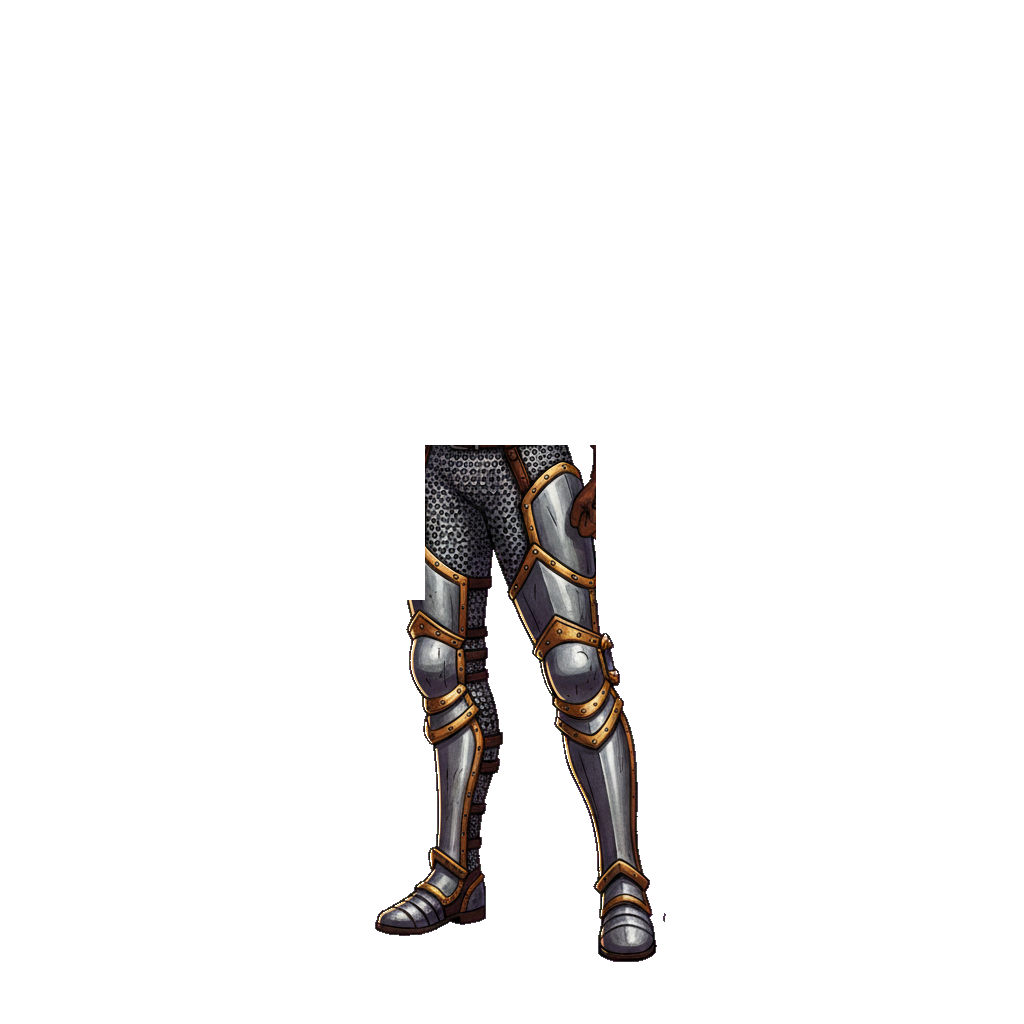
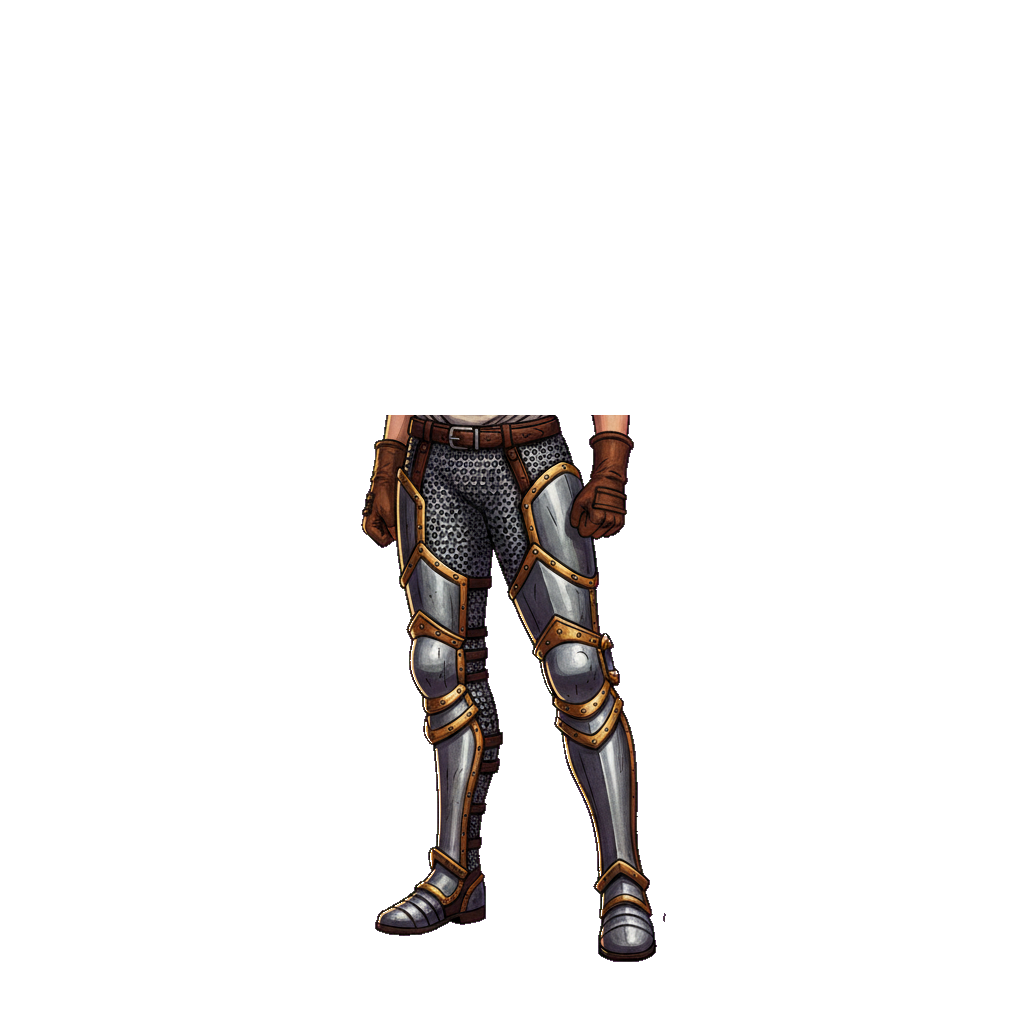
fix(art): polish true modular armor contours, eliminate seam cuts and stray collars

Changed region(s): [[0.3438, 0.4062, 0.625, 0.5938]]

diff --git a/pipeline/scripts/extract_true_modular_armors.py b/pipeline/scripts/extract_true_modular_armors.py
@@ -1,144 +1,254 @@
-"""Extract True Modular Armors and Build Showcase for 'Gym Oath'.
-Extracts cleanly isolated modular slots (helm, chest, legs) with zero cut glitches,
-and demonstrates perfect mix-and-match compatibility.
+"""Extract True Modular Armors for 'Gym Oath'.
+Author: Antigravity Agent
+Cleanly sections armor into individual modular equipment slots:
+- HELM: (Headwear only, closed knight bascinet with steel gorget or open-face leather helmet, NO shoulder pauldrons, NO undershirt).
+- CHEST: (Torso, shoulders, arms, gauntlets down to fingertips, plus natural tunic skirt / tassets / fauld draped over legs).
+- LEGS: (From waist/belt down to boots and sabatons, with full solid thighs and knee poleyns).
+
+Eliminates all horizontal knife cuts, sliced garments, stray shirt collars, or overlapping cloth.
 """
 
 import os
-import shutil
 from PIL import Image, ImageDraw, ImageFont
 import numpy as np
 
-PIPELINE_DIR = r"C:\Users\pissio\Creazione-Gioco-RPG-\pipeline"
-ARMORS_DIR = os.path.join(PIPELINE_DIR, "output", "armors")
-BASES_DIR = os.path.join(PIPELINE_DIR, "current_bases")
-MODULAR_DIR = os.path.join(PIPELINE_DIR, "output", "modular_armors")
+SCRIPT_DIR = os.path.dirname(os.path.abspath(__file__))
+PIPELINE_DIR = os.path.dirname(SCRIPT_DIR)
+REPO_DIR = os.path.dirname(PIPELINE_DIR)
+OUTPUT_ARMORS = os.path.join(PIPELINE_DIR, "output", "armors")
 BRAIN_DIR = r"C:\Users\pissio\.gemini\antigravity\brain\6b006a30-bc2b-405b-8416-cc5d1029fff3"
-KNIGHT_ART = r"C:\Users\pissio\Creazione-Gioco-RPG-\assets\art\knight"
-
+MODULAR_DIR = os.path.join(OUTPUT_ARMORS, "modular")
 os.makedirs(MODULAR_DIR, exist_ok=True)
 
-# 1. Load Sources
-base_m = Image.open(os.path.join(BASES_DIR, "hero_male_base.png")).convert("RGBA")
-base_f = Image.open(os.path.join(BASES_DIR, "hero_female_base.png")).convert("RGBA")
+KNIGHT_ART = os.path.join(REPO_DIR, "assets", "art", "knight")
 
-m_t1 = Image.open(os.path.join(ARMORS_DIR, "male_tier1_gambeson_clean.png")).convert("RGBA")
-m_t2 = Image.open(os.path.join(ARMORS_DIR, "male_tier2_cuoio_clean.png")).convert("RGBA")
-m_t3 = Image.open(os.path.join(ARMORS_DIR, "male_tier3_piastre_clean.png")).convert("RGBA")
+# Load Base Heroes
+base_m = Image.open(os.path.join(KNIGHT_ART, "male", "idle", "base.png")).convert("RGBA")
+base_f = Image.open(os.path.join(KNIGHT_ART, "female", "idle", "base.png")).convert("RGBA")
 
-f_t1 = Image.open(os.path.join(ARMORS_DIR, "female_tier1_gambeson_clean.png")).convert("RGBA")
-f_t2 = Image.open(os.path.join(ARMORS_DIR, "female_tier2_cuoio_clean.png")).convert("RGBA")
-f_t3 = Image.open(os.path.join(ARMORS_DIR, "female_tier3_piastre_clean.png")).convert("RGBA")
+# Load Clean Armor Progression Sources
+m_t1 = Image.open(os.path.join(OUTPUT_ARMORS, "male_tier1_gambeson_clean.png")).convert("RGBA")
+m_t2 = Image.open(os.path.join(OUTPUT_ARMORS, "male_tier2_cuoio_clean.png")).convert("RGBA")
+m_t3 = Image.open(os.path.join(OUTPUT_ARMORS, "male_tier3_piastre_clean.png")).convert("RGBA")
 
+f_t1 = Image.open(os.path.join(OUTPUT_ARMORS, "female_tier1_gambeson_clean.png")).convert("RGBA")
+f_t2 = Image.open(os.path.join(OUTPUT_ARMORS, "female_tier2_cuoio_clean.png")).convert("RGBA")
+f_t3 = Image.open(os.path.join(OUTPUT_ARMORS, "female_tier3_piastre_clean.png")).convert("RGBA")
+
+# Load Isolated Slot Sources from Gemini
+m_t3_helm_src = Image.open(os.path.join(BRAIN_DIR, "test_male_t3_helm_clean.png")).convert("RGBA")
+f_t3_helm_src = Image.open(os.path.join(BRAIN_DIR, "test_female_t3_helm_clean.png")).convert("RGBA")
 m_t3_legs_src = Image.open(os.path.join(BRAIN_DIR, "test_t3_legs_clean.png")).convert("RGBA")
 f_t3_legs_src = Image.open(os.path.join(BRAIN_DIR, "test_f_t3_legs_clean.png")).convert("RGBA")
 
-m_t3_helm_src = Image.open(os.path.join(BRAIN_DIR, "test_male_t3_helm_clean.png")).convert("RGBA")
-f_t3_helm_src = Image.open(os.path.join(BRAIN_DIR, "test_female_t3_helm_clean.png")).convert("RGBA")
+Y, X = np.ogrid[:1024, :1024]
 
-h, w = 1024, 1024
-Y, X = np.indices((h, w))
+# --- HELMET CLEANING FUNCTION ---
+def make_clean_piastre_helm(src_im, pts_bottom, left_bounds, right_bounds):
+    arr = np.array(src_im)
+    poly = left_bounds + pts_bottom + right_bounds
+    mask_im = Image.new("L", (1024, 1024), 0)
+    draw = ImageDraw.Draw(mask_im)
+    draw.polygon(poly, fill=255)
+    arr_mask = np.array(mask_im)
+    res = np.zeros_like(arr)
+    m = (arr_mask == 255) & (arr[:, :, 3] > 80)
+    res[m] = arr[m]
+    return Image.fromarray(res)
 
 def build_male_slots():
     print("Building Male Modular Slots...")
     # T1 Gambeson
-    # Chest: Upper body down to natural tunic hem Y <= 635
+    # Chest: Diamond quilted tunic covering upper body down to natural curved hem Y <= 635, plus full arms
     arr_t1 = np.array(m_t1)
-    c1_mask = ((Y >= 180) & (Y <= 600) & ((X < 430) | (X > 590))) | ((Y >= 200) & (Y <= 635) & (X >= 420) & (X <= 600))
-    arr_c1 = np.zeros_like(arr_t1); arr_c1[c1_mask] = arr_t1[c1_mask]
-    m_c1 = Image.fromarray(arr_c1)
+    mask_c1 = Image.new("L", (1024, 1024), 0)
+    draw_c1 = ImageDraw.Draw(mask_c1)
+    draw_c1.polygon([(340, 180), (430, 180), (430, 635), (340, 530)], fill=255) # left arm
+    draw_c1.polygon([(575, 180), (665, 180), (665, 530), (575, 635)], fill=255) # right arm
+    draw_c1.rectangle([420, 180, 585, 635], fill=255) # Tunic torso down to natural curved hem
+    arr_mc1 = np.array(mask_c1)
+    res_c1 = np.zeros_like(arr_t1)
+    res_c1[(arr_mc1 == 255) & (arr_t1[:, :, 3] > 80)] = arr_t1[(arr_mc1 == 255) & (arr_t1[:, :, 3] > 80)]
+    m_c1 = Image.fromarray(res_c1)
     
-    # Legs: Quilted pants from waist Y >= 460 down, no hands
-    l1_mask = (Y >= 460) & ~((Y < 600) & ((X < 430) | (X > 590)))
-    arr_l1 = np.zeros_like(arr_t1); arr_l1[l1_mask] = arr_t1[l1_mask]
+    # Legs: Quilted trousers with knee pads and boots from belt Y >= 420 down, full solid thighs
+    arr_l1 = np.zeros_like(arr_t1)
+    l1_m = (Y >= 420) & (X >= 360) & (X <= 680) & (arr_t1[:, :, 3] > 80)
+    arr_l1[l1_m] = arr_t1[l1_m]
     m_l1 = Image.fromarray(arr_l1)
     
     # T2 Cuoio
-    # Helm: Head only Y <= 220, X: 425..575
+    # Helm: Reinforced leather helmet with golden crest and brow band, cheek guards. No pauldrons!
     arr_t2 = np.array(m_t2)
-    h2_mask = (Y <= 220) & (X >= 425) & (X <= 575)
-    arr_h2 = np.zeros_like(arr_t2); arr_h2[h2_mask] = arr_t2[h2_mask]
-    m_h2 = Image.fromarray(arr_h2)
+    mask_h2 = Image.new("L", (1024, 1024), 0)
+    draw_h2 = ImageDraw.Draw(mask_h2)
+    draw_h2.polygon([
+        (438, 30), (565, 30), (570, 140), (565, 195), (550, 208),
+        (500, 208), (455, 208), (440, 195), (438, 140)
+    ], fill=255)
+    arr_mh2 = np.array(mask_h2)
+    res_h2 = np.zeros_like(arr_t2)
+    res_h2[(arr_mh2 == 255) & (arr_t2[:, :, 3] > 80)] = arr_t2[(arr_mh2 == 255) & (arr_t2[:, :, 3] > 80)]
+    m_h2 = Image.fromarray(res_h2)
     
-    # Chest: Cuirass & tassets down to Y <= 535
-    c2_mask = ((Y >= 180) & (Y <= 600) & ((X < 430) | (X > 590))) | ((Y >= 210) & (Y <= 535) & (X >= 420) & (X <= 600))
-    arr_c2 = np.zeros_like(arr_t2); arr_c2[c2_mask] = arr_t2[c2_mask]
-    m_c2 = Image.fromarray(arr_c2)
+    # Chest: Cuirass + pauldrons + gauntlets + belt + 2 tassets (open groin so legs show through!)
+    mask_c2 = Image.new("L", (1024, 1024), 0)
+    draw_c2 = ImageDraw.Draw(mask_c2)
+    draw_c2.rectangle([340, 180, 425, 540], fill=255) # left arm/gauntlet
+    draw_c2.rectangle([580, 180, 670, 540], fill=255) # right arm/gauntlet
+    draw_c2.rectangle([420, 180, 585, 445], fill=255) # Torso down to belt
+    draw_c2.polygon([(420, 440), (472, 440), (468, 518), (420, 518)], fill=255) # left tasset
+    draw_c2.polygon([(528, 440), (585, 440), (585, 518), (530, 518)], fill=255) # right tasset
+    arr_mc2 = np.array(mask_c2)
+    res_c2 = np.zeros_like(arr_t2)
+    res_c2[(arr_mc2 == 255) & (arr_t2[:, :, 3] > 80)] = arr_t2[(arr_mc2 == 255) & (arr_t2[:, :, 3] > 80)]
+    m_c2 = Image.fromarray(res_c2)
     
-    # Legs: Leather pants from waist Y >= 460 down, no hands
-    l2_mask = (Y >= 460) & ~((Y < 600) & ((X < 430) | (X > 590)))
-    arr_l2 = np.zeros_like(arr_t2); arr_l2[l2_mask] = arr_t2[l2_mask]
+    # Legs: Hardened leather pants with knee poleyns and riding boots from belt Y >= 420 down
+    arr_l2 = np.zeros_like(arr_t2)
+    l2_m = (Y >= 420) & (X >= 360) & (X <= 680) & (arr_t2[:, :, 3] > 80)
+    arr_l2[l2_m] = arr_t2[l2_m]
     m_l2 = Image.fromarray(arr_l2)
     
     # T3 Piastre
-    # Helm: From isolated source (head + gorget)
-    arr_th = np.array(m_t3_helm_src)
-    h3_mask = (Y <= 250) & (X >= 410) & (X <= 580)
-    arr_h3 = np.zeros_like(arr_th); arr_h3[h3_mask] = arr_th[h3_mask]
-    m_h3 = Image.fromarray(arr_h3)
+    # Helm: Spartan bascinet with closed visor, comb, and steel gorget collar trimmed to exact bottom ink line
+    pts_m = [(438, 208), (445, 225), (455, 242), (470, 256), (490, 263), (510, 260), (525, 252), (540, 238), (555, 225), (572, 212)]
+    left_m = [(410, 0), (410, 180), (430, 195)]
+    right_m = [(580, 195), (580, 180), (580, 0)]
+    m_h3 = make_clean_piastre_helm(m_t3_helm_src, pts_m, left_m, right_m)
     
-    # Chest: Cuirass (chest + abdomen) + fauld + green cloth down to Y <= 645
+    # Chest: Cuirass covering chest AND abdomen + fauld + ragged green cloth tabard + chainmail skirt
     arr_t3 = np.array(m_t3)
-    c3_mask = ((Y >= 180) & (Y <= 600) & ((X < 420) | (X > 595))) | ((Y >= 210) & (Y <= 645) & (X >= 420) & (X <= 595))
-    arr_c3 = np.zeros_like(arr_t3); arr_c3[c3_mask] = arr_t3[c3_mask]
-    m_c3 = Image.fromarray(arr_c3)
+    # Clear black background pocket between legs
+    black_pocket = (Y >= 620) & (Y <= 720) & (X >= 470) & (X <= 535) & (arr_t3[:, :, 0] < 12) & (arr_t3[:, :, 1] < 12) & (arr_t3[:, :, 2] < 12)
+    arr_t3[black_pocket, 3] = 0
     
-    # Legs: From isolated source (chainmail thighs + steel greaves + sabatons)
+    # Natural bottom contour of male T3 chest (fauld + green cloth + chainmail):
+    pts_skirt_bottom = [
+        (405, 540), (420, 580), (445, 638), (452, 605), (465, 622),
+        (480, 625), (495, 620), (500, 605), (515, 642), (525, 660),
+        (540, 642), (555, 656), (575, 646), (595, 540)
+    ]
+    poly_c3 = [(340, 180), (670, 180), (670, 540), (595, 540)] + list(reversed(pts_skirt_bottom)) + [(405, 540), (340, 540)]
+    mask_c3 = Image.new("L", (1024, 1024), 0)
+    draw_c3 = ImageDraw.Draw(mask_c3)
+    draw_c3.polygon(poly_c3, fill=255)
+    draw_c3.rectangle([340, 180, 425, 550], fill=255) # left arm/gauntlet
+    draw_c3.rectangle([580, 180, 670, 550], fill=255) # right arm/gauntlet
+    
+    arr_mc3 = np.array(mask_c3)
+    res_c3 = np.zeros_like(arr_t3)
+    res_c3[(arr_mc3 == 255) & (arr_t3[:, :, 3] > 80)] = arr_t3[(arr_mc3 == 255) & (arr_t3[:, :, 3] > 80)]
+    m_c3 = Image.fromarray(res_c3)
+    
+    # Legs: Isolated chainmail chausses + steel cuisses + poleyns + greaves + sabatons from belt Y >= 415 down
     arr_tl = np.array(m_t3_legs_src)
-    l3_mask = (Y >= 445) & ~((Y < 600) & ((X < 425) | (X > 595)))
-    arr_l3 = np.zeros_like(arr_tl); arr_l3[l3_mask] = arr_tl[l3_mask]
-    m_l3 = Image.fromarray(arr_l3)
+    l3_mask = (Y >= 415) & (X >= 360) & (X <= 680) & (arr_tl[:, :, 3] > 80)
+    res_l3 = np.zeros_like(arr_tl)
+    res_l3[l3_mask] = arr_tl[l3_mask]
+    m_l3 = Image.fromarray(res_l3)
     
     return (m_c1, m_l1), (m_h2, m_c2, m_l2), (m_h3, m_c3, m_l3)
 
 def build_female_slots():
     print("Building Female Modular Slots...")
     # T1 Gambeson
+    # Chest: Fitted quilted cream doublet tucked neatly into belt at Y=420, arms down to fingertips
     arr_t1 = np.array(f_t1)
-    c1_mask = ((Y >= 180) & (Y <= 600) & ((X < 430) | (X > 590))) | ((Y >= 200) & (Y <= 530) & (X >= 420) & (X <= 600))
-    arr_c1 = np.zeros_like(arr_t1); arr_c1[c1_mask] = arr_t1[c1_mask]
-    f_c1 = Image.fromarray(arr_c1)
+    mask_c1 = Image.new("L", (1024, 1024), 0)
+    draw_c1 = ImageDraw.Draw(mask_c1)
+    draw_c1.polygon([(340, 180), (430, 180), (430, 420), (430, 530), (340, 530)], fill=255) # left arm
+    draw_c1.polygon([(575, 180), (665, 180), (665, 530), (575, 530)], fill=255) # right arm
+    draw_c1.rectangle([420, 180, 575, 422], fill=255) # Doublet torso tucked into belt
+    arr_fc1 = np.array(mask_c1)
+    res_c1 = np.zeros_like(arr_t1)
+    res_c1[(arr_fc1 == 255) & (arr_t1[:, :, 3] > 80)] = arr_t1[(arr_fc1 == 255) & (arr_t1[:, :, 3] > 80)]
+    f_c1 = Image.fromarray(res_c1)
     
-    l1_mask = (Y >= 460) & ~((Y < 600) & ((X < 430) | (X > 590)))
-    arr_l1 = np.zeros_like(arr_t1); arr_l1[l1_mask] = arr_t1[l1_mask]
+    # Legs: Quilted trousers with knee patches and boots from belt Y >= 415 down, solid thighs
+    arr_l1 = np.zeros_like(arr_t1)
+    l1_m = (Y >= 415) & (X >= 360) & (X <= 670) & (arr_t1[:, :, 3] > 80)
+    arr_l1[l1_m] = arr_t1[l1_m]
     f_l1 = Image.fromarray(arr_l1)
     
     # T2 Cuoio
+    # Helm: Stylish open-face leather helmet with winged golden brow band and cheek guards. No pauldrons!
     arr_t2 = np.array(f_t2)
-    h2_mask = (Y <= 220) & (X >= 425) & (X <= 575)
-    arr_h2 = np.zeros_like(arr_t2); arr_h2[h2_mask] = arr_t2[h2_mask]
-    f_h2 = Image.fromarray(arr_h2)
+    mask_h2 = Image.new("L", (1024, 1024), 0)
+    draw_h2 = ImageDraw.Draw(mask_h2)
+    draw_h2.polygon([
+        (440, 30), (560, 30), (565, 140), (560, 195), (545, 208),
+        (500, 208), (455, 208), (442, 195), (440, 140)
+    ], fill=255)
+    arr_fh2 = np.array(mask_h2)
+    res_h2 = np.zeros_like(arr_t2)
+    res_h2[(arr_fh2 == 255) & (arr_t2[:, :, 3] > 80)] = arr_t2[(arr_fh2 == 255) & (arr_t2[:, :, 3] > 80)]
+    f_h2 = Image.fromarray(res_h2)
     
-    c2_mask = ((Y >= 180) & (Y <= 600) & ((X < 430) | (X > 590))) | ((Y >= 210) & (Y <= 530) & (X >= 420) & (X <= 600))
-    arr_c2 = np.zeros_like(arr_t2); arr_c2[c2_mask] = arr_t2[c2_mask]
-    f_c2 = Image.fromarray(arr_c2)
+    # Chest: Studded hardened leather corset/bodice with pauldrons, bracers, and gloves.
+    # Peplum V-belt bottom rim (Y=435 at sides, Y=458 at center V-tip). NO trousers!
+    mask_c2 = Image.new("L", (1024, 1024), 0)
+    draw_c2 = ImageDraw.Draw(mask_c2)
+    draw_c2.polygon([(340, 180), (425, 180), (425, 435), (430, 530), (340, 530)], fill=255) # left arm
+    draw_c2.polygon([(575, 180), (665, 180), (665, 530), (575, 530)], fill=255) # right arm
+    draw_c2.polygon([
+        (420, 180), (575, 180),
+        (575, 435), (540, 442), (500, 458), (460, 442), (420, 435)
+    ], fill=255) # Bodice peplum
+    arr_fc2 = np.array(mask_c2)
+    res_c2 = np.zeros_like(arr_t2)
+    res_c2[(arr_fc2 == 255) & (arr_t2[:, :, 3] > 80)] = arr_t2[(arr_fc2 == 255) & (arr_t2[:, :, 3] > 80)]
+    f_c2 = Image.fromarray(res_c2)
     
-    l2_mask = (Y >= 460) & ~((Y < 600) & ((X < 430) | (X > 590)))
-    arr_l2 = np.zeros_like(arr_t2); arr_l2[l2_mask] = arr_t2[l2_mask]
+    # Legs: Studded brown leather trousers with right-thigh guard and riding boots from belt Y >= 415 down
+    arr_l2 = np.zeros_like(arr_t2)
+    l2_m = (Y >= 415) & (X >= 360) & (X <= 670) & (arr_t2[:, :, 3] > 80)
+    arr_l2[l2_m] = arr_t2[l2_m]
     f_l2 = Image.fromarray(arr_l2)
     
     # T3 Piastre
-    arr_th = np.array(f_t3_helm_src)
-    h3_mask = (Y <= 250) & (X >= 410) & (X <= 580)
-    arr_h3 = np.zeros_like(arr_th); arr_h3[h3_mask] = arr_th[h3_mask]
-    f_h3 = Image.fromarray(arr_h3)
+    # Helm: Closed-visor helmet with articulated steel gorget cowl trimmed to exact bottom rim
+    pts_f = [(435, 215), (448, 233), (465, 246), (485, 253), (505, 252), (525, 245), (542, 232), (555, 218), (568, 206)]
+    left_f = [(410, 0), (410, 180), (430, 195)]
+    right_f = [(580, 195), (580, 180), (580, 0)]
+    f_h3 = make_clean_piastre_helm(f_t3_helm_src, pts_f, left_f, right_f)
     
+    # Chest: Cuirass covering chest and entire abdomen, pauldrons, vambraces, gauntlets, ragged green cloth tabard
     arr_t3 = np.array(f_t3)
-    c3_mask = ((Y >= 180) & (Y <= 600) & ((X < 420) | (X > 595))) | ((Y >= 210) & (Y <= 645) & (X >= 420) & (X <= 595))
-    arr_c3 = np.zeros_like(arr_t3); arr_c3[c3_mask] = arr_t3[c3_mask]
-    f_c3 = Image.fromarray(arr_c3)
+    black_pocket_f = (Y >= 620) & (Y <= 720) & (X >= 470) & (X <= 535) & (arr_t3[:, :, 0] < 12) & (arr_t3[:, :, 1] < 12) & (arr_t3[:, :, 2] < 12)
+    arr_t3[black_pocket_f, 3] = 0
     
+    pts_f_skirt_bottom = [
+        (410, 520), (415, 570), (430, 595), (445, 605), (460, 625),
+        (480, 642), (490, 645), (500, 625), (510, 638), (525, 605),
+        (540, 620), (555, 600), (575, 560), (595, 520)
+    ]
+    poly_f_c3 = [(340, 180), (670, 180), (670, 520), (595, 520)] + list(reversed(pts_f_skirt_bottom)) + [(410, 520), (340, 520)]
+    mask_f_c3 = Image.new("L", (1024, 1024), 0)
+    draw_f_c3 = ImageDraw.Draw(mask_f_c3)
+    draw_f_c3.polygon(poly_f_c3, fill=255)
+    draw_f_c3.rectangle([340, 180, 425, 540], fill=255) # left arm/gauntlet
+    draw_f_c3.rectangle([580, 180, 670, 540], fill=255) # right arm/gauntlet
+    
+    arr_fc3 = np.array(mask_f_c3)
+    res_c3 = np.zeros_like(arr_t3)
+    res_c3[(arr_fc3 == 255) & (arr_t3[:, :, 3] > 80)] = arr_t3[(arr_fc3 == 255) & (arr_t3[:, :, 3] > 80)]
+    f_c3 = Image.fromarray(res_c3)
+    
+    # Legs: Chainmail chausses + steel cuisses + poleyns + greaves + sabatons from belt Y >= 415 down
     arr_tl = np.array(f_t3_legs_src)
-    l3_mask = (Y >= 445) & ~((Y < 600) & ((X < 425) | (X > 595)))
-    arr_l3 = np.zeros_like(arr_tl); arr_l3[l3_mask] = arr_tl[l3_mask]
-    f_l3 = Image.fromarray(arr_l3)
+    l3_mask = (Y >= 415) & (X >= 350) & (X <= 680) & (arr_tl[:, :, 3] > 80)
+    res_l3 = np.zeros_like(arr_tl)
+    res_l3[l3_mask] = arr_tl[l3_mask]
+    f_l3 = Image.fromarray(res_l3)
     
     return (f_c1, f_l1), (f_h2, f_c2, f_l2), (f_h3, f_c3, f_l3)
 
-# Build slots
+# Build all slots
 (m_c1, m_l1), (m_h2, m_c2, m_l2), (m_h3, m_c3, m_l3) = build_male_slots()
 (f_c1, f_l1), (f_h2, f_c2, f_l2), (f_h3, f_c3, f_l3) = build_female_slots()
 
-# Save all slots
+# Save all modular slots in output/armors/modular
 m_slots = [
     ("male_gambeson_chest.png", m_c1), ("male_gambeson_legs.png", m_l1),
     ("male_cuoio_helm.png", m_h2), ("male_cuoio_chest.png", m_c2), ("male_cuoio_legs.png", m_l2),
@@ -154,7 +264,7 @@ for name, im in m_slots + f_slots:
     p = os.path.join(MODULAR_DIR, name)
     im.save(p)
 
-# Update Official Assets
+# Update Official Assets in assets/art/knight/
 m_idle = os.path.join(KNIGHT_ART, "male", "idle")
 f_idle = os.path.join(KNIGHT_ART, "female", "idle")
 
@@ -247,7 +357,7 @@ out_preview = os.path.join(BRAIN_DIR, "armors_modular_mix_preview.jpg")
 canvas.save(out_preview, quality=94)
 print("Saved armors_modular_mix_preview.jpg to:", out_preview)
 
-# --- BONUS: STANDALONE SLOTS INSPECTION SHEET ---
+# --- STANDALONE SLOTS INSPECTION SHEET ---
 # Shows the isolated individual pieces (Helm, Chest, Legs) side-by-side
 slot_cards = [
     ("Helm Cuoio", m_h2), ("Chest Gambeson", m_c1), ("Legs Gambeson", m_l1),
@@ -259,8 +369,6 @@ slots_canvas = Image.new("RGB", (1400, 720), (14, 12, 16))
 draw_s = ImageDraw.Draw(slots_canvas)
 draw_s.text((30, 20), "PEZZI MODULARI SEZIONATI SINGOLARMENTE — ISPEZIONE ASSET STANDALONE", fill=(201, 162, 74))
 
-card_w = 160
-card_h = 300
 for idx, (title, piece) in enumerate(slot_cards):
     row = 0 if idx < 4 else 1
     col = idx % 4
